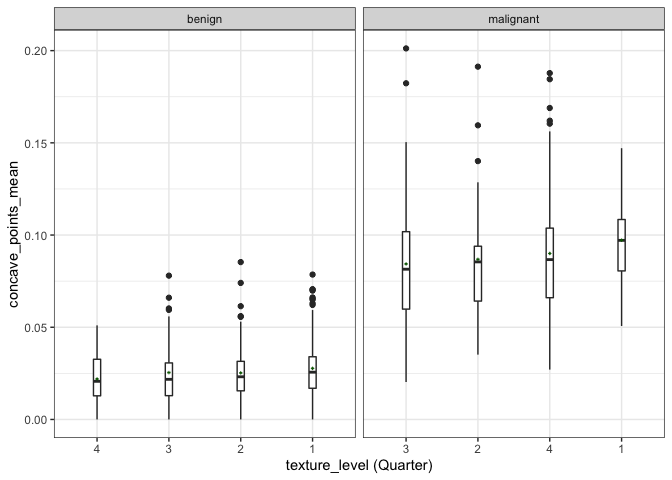
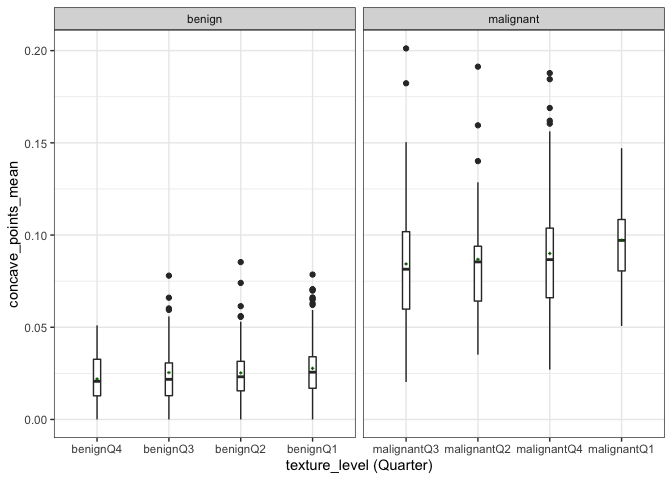
da2 - completed

diff --git a/Milestone2/mini-project-2.md b/Milestone2/mini-project-2.md
@@ -117,6 +117,8 @@ head(cancer_sample)
     ## #   area_worst <dbl>, smoothness_worst <dbl>, compactness_worst <dbl>,
     ## #   concavity_worst <dbl>, concave_points_worst <dbl>, symmetry_worst <dbl>, …
 
+**Original sub data set:**
+
 ``` r
 cancer_1 <- cancer_sample[1:8]
 head(cancer_1)
@@ -151,6 +153,8 @@ and “after”.
 
 <!--------------------------- Start your work below --------------------------->
 
+**Untidy my data set:**
+
 ``` r
 cancer_2 <- cancer_1 %>% pivot_longer(c(-1,-2), 
                          names_to = "types", 
@@ -172,6 +176,8 @@ cancer_2
     ##  9 842517 M         perimeter_mean    133.   
     ## 10 842517 M         area_mean        1326    
     ## # … with 3,404 more rows
+
+**Tidy my data set:**
 
 ``` r
 cancer_3 <- cancer_2 %>% pivot_wider(names_from=types, 
@@ -251,7 +257,9 @@ cancer_subsample <- cancer_subsample %>%
                                    radius_mean<10 ~ "Small",
                                    TRUE ~ "Medium"))
 
-# create a texture level group according to quantile., Q1 is lower than 25% quantile, Q2 is between 25% and 50% quantile, Q3 is between 50% abd 75% quantile and Q4 is higher than 75% quantile.
+# create a texture level group according to quantile., Q1 is lower than 25% quantile, 
+#Q2 is between 25% and 50% quantile, Q3 is between 50% abd 75% quantile and 
+#Q4 is higher than 75% quantile.
 cancer_subsample <- cancer_subsample %>% 
   mutate(texture_level = case_when( texture_mean < 16.17  ~ "Q1",
                                    texture_mean< 18.84 ~ "Q2",
@@ -349,6 +357,7 @@ Now, choose two of the following tasks.
 **Task Number**: 1
 
 ``` r
+# change texture_level as a factor
 cancer_subsample$texture_level <- as.factor(cancer_subsample$texture_level)
 levels(cancer_subsample$texture_level)
 ```
@@ -365,7 +374,9 @@ group and malignant group.
 
 ``` r
 cancer_subsample <- cancer_subsample %>% 
+  # refactor texture_level according to different diagnosis
   mutate(neworder_t = paste0(diagnosis, texture_level)) %>% 
+  # reorder texture_level according to median of concave_points_mean 
   mutate(neworder_t = fct_reorder(neworder_t,concave_points_mean)) 
 ```
 
@@ -377,14 +388,14 @@ p <- cancer_subsample %>%
                size = 0.3, color = "dark green") +
   facet_wrap(~diagnosis,scales = "free_x")+
   labs(x = "texture_level (Quarter)") + 
-  scale_x_discrete(labels = setNames(cancer_subsample$texture_level, cancer_subsample$neworder_t))+
+  #scale_x_discrete(labels = setNames(cancer_subsample$texture_level, cancer_subsample$neworder_t))+
   theme_bw()
 print(p)
 ```
 
 ![](mini-project-2_files/figure-gfm/unnamed-chunk-10-1.png)<!-- -->
 
-From the plot above, it is clear that larger texture mean is associated
+From the plot above, it is clear that smaller texture mean is associated
 with larger mean of concave points in benign group. However, the trend
 is slightly different in malignant group. The median of concave points
 number is higher in malignant group in overall. The 4th quarter of
@@ -397,11 +408,13 @@ points within two groups.
 <!----------------------------------------------------------------------------->
 <!-------------------------- Start your work below ---------------------------->
 
-**Task Number**: 2 From plots in Task 1, 2nd and 3rd quarter of
-texture_mean have very similar distrubution in number of concave ponits,
-so I would like to combine these two levels into one factor level called
-`Medium`. First Quarter of texture_mean will be renamed as `Low` and
-Fourth Quarter of texture_mean will be renamed as `High`.
+**Task Number**: 2
+
+From plots in Task 1, 2nd and 3rd quarter of texture_mean have very
+similar distrubution in number of concave ponits, so I would like to
+combine these two levels into one factor level called `Medium`. First
+Quarter of texture_mean will be renamed as `Low` and Fourth Quarter of
+texture_mean will be renamed as `High`.
 
 ``` r
 cancer_subsample$texture_level <- cancer_subsample$texture_level %>% fct_collapse( Medium = c("Q2","Q3"))
@@ -576,6 +589,8 @@ out_t <- cancer_subsample %>%
     ## override using the `.groups` argument.
 
 ``` r
+setwd(here::here())
+dir.create(here::here("output"))
 write_csv(out_t, file.path("output", "here_exported_file.csv"))
 ```
 
@@ -593,6 +608,7 @@ Use the functions `saveRDS()` and `readRDS()`.
 <!-------------------------- Start your work below ---------------------------->
 
 ``` r
+setwd(here::here())
 saveRDS(model, file.path("output","model_info"))
 readRDS(file.path("output","model_info"))
 ```
